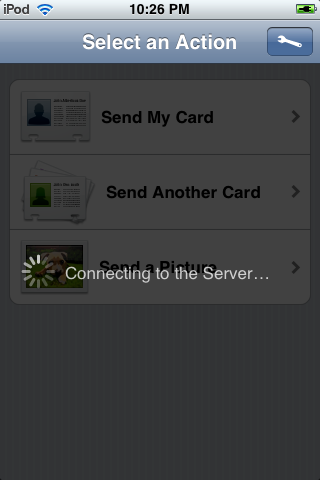
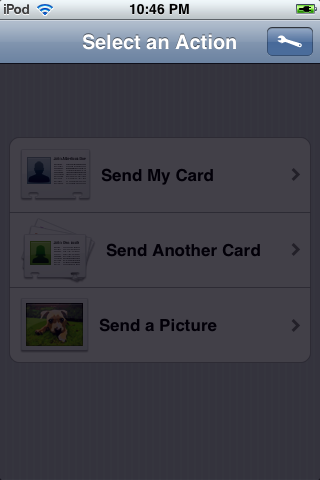
Centered table view. Updated default.png.

diff --git a/Classes/HSKMainViewController.m b/Classes/HSKMainViewController.m
@@ -941,6 +941,16 @@
 #pragma mark Table Functions
 
 
+- (CGFloat)tableView:(UITableView *)tableView heightForHeaderInSection:(NSInteger)section
+{
+    return 73.0;
+}
+
+- (NSString *)tableView:(UITableView *)tableView titleForHeaderInSection:(NSInteger)section
+{
+    return @" ";
+}
+
 - (NSInteger)numberOfSectionsInTableView:(UITableView *)tableView 
 {
 	
